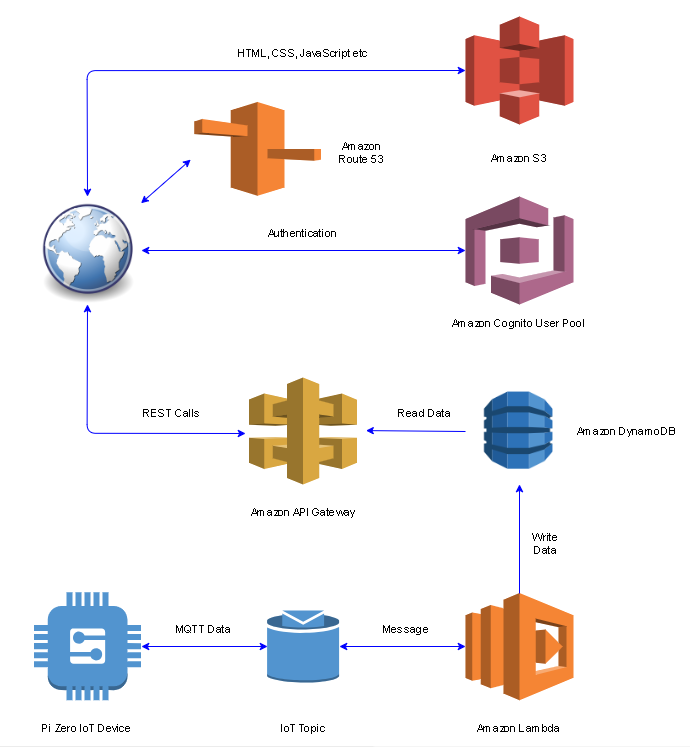
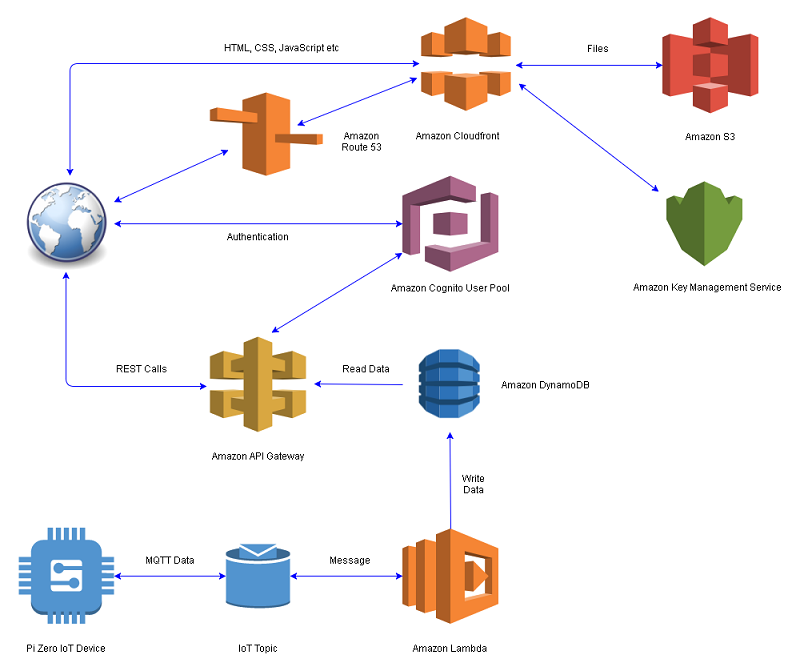
More documentation for CloudFront and KMS

diff --git a/cloudfront/README.md b/cloudfront/README.md
@@ -1,0 +1,31 @@
+# Amazon CloudFront
+
+[Official Documentation for CloudFront](https://aws.amazon.com/cloudfront/)
+
+<img src="../images/cloudfront.png">
+
+CloudFront is a massively scaled and globally distributed content delivery network (CDN) with a number of features directly useful to this application.
+
+## Features in Brief
+
+* A large number of globally distributed points of presence (PoP)
+* Regional edge caches
+* SSL/TLS Encryptions and HTTPS
+* Access control - including user authentication and location restrictions
+* Control on S3 access 
+* Control on API access
+
+## Usage
+
+The application uses a number of CloudFront features:
+
+* PoP's enables for EMEA / North America to enhance performance when accessing assets in S3
+* Enabling HTTPS:// only access
+* Removing public access to S3
+
+## Notes on S3 / Route 53
+
+If you are publishing a static web site (as in this case) via CloudFront, ignore the policy and DNS configuration in the section on S3.  
+CloudFront can make all the necessary DNS updates and policy changes required when publishing authomatically and without further intervention.
+
+

diff --git a/s3/README.md b/s3/README.md
@@ -48,6 +48,6 @@ Once the site is verified as being 'live', it is possible to access it via a cus
 - [ ] Go to the Route 53 [page](https://console.aws.amazon.com/route53/home)
 - [ ] Follow the wizard to register a domain. This name *MUST* match the bucket name
 - [ ] Select the `Hosted Zone` tab and select the domain name you just registered
-- [ ] Create two record sets, one for `mystaticwebsite.net` and one for `mystaticwebsite.net`. Refer to the AWS documentation for [details](https://docs.aws.amazon.com/AmazonS3/latest/dev/website-hosting-custom-domain-walkthrough.html).
+- [ ] Create two record sets, one for `mystaticwebsite.net` and one for `www.mystaticwebsite.net`. Refer to the AWS documentation for [details](https://docs.aws.amazon.com/AmazonS3/latest/dev/website-hosting-custom-domain-walkthrough.html).
 - [ ] Check you now have access to the website via the domain
   

diff --git a/kms/README.md b/kms/README.md
@@ -1,0 +1,10 @@
+# Key Management Service
+
+[Official Documentation](https://aws.amazon.com/kms/)
+
+<img src="../images/kms.png">
+
+## Usage
+
+AWS Key Management Service provides a centralized point of control of cetificates and encryption keys.  In this application, a certificate has
+been generated for use by Cloudfront to enable SSL functionality.

diff --git a/cognito/README.md b/cognito/README.md
@@ -4,8 +4,12 @@
 
 <img src="../images/cognito.png">
 
+## Features in Brief
+
 The simplest way to add user sign-up, sign-in, and access control to your web applications, REST interfaces and mobile apps in the AWS world is 
 by using Amazon Cognito.
+
+## Usage
 
 This application uses Cognito to:
 
